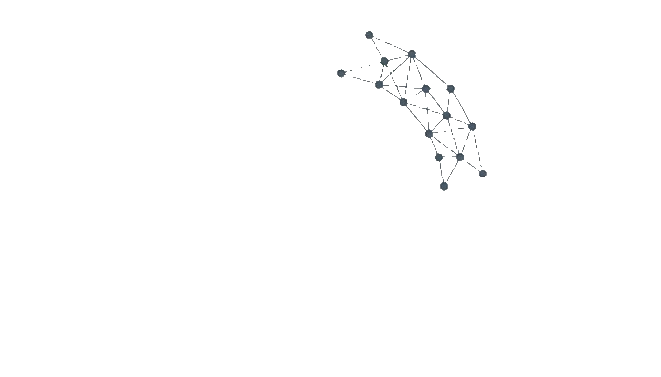
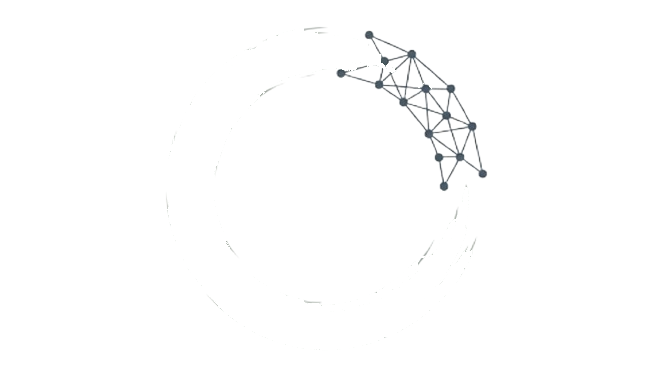
Enso animation: clean layer split, stroke leads and network lands last

diff --git a/style.css b/style.css
@@ -335,8 +335,8 @@ body.menu-open .mobile-menu-links li:nth-child(4) { transition-delay: 0.2s; }
     @supports (mask: conic-gradient(#000 0deg, transparent 0deg)) {
         .enso-brush {
             --enso-sweep: 0deg;
-            -webkit-mask: conic-gradient(from 52deg at 50% 51%, #000 var(--enso-sweep), transparent calc(var(--enso-sweep) + 26deg));
-            mask: conic-gradient(from 52deg at 50% 51%, #000 var(--enso-sweep), transparent calc(var(--enso-sweep) + 26deg));
+            -webkit-mask: conic-gradient(from 96deg at 50% 51%, #000 var(--enso-sweep), transparent calc(var(--enso-sweep) + 26deg));
+            mask: conic-gradient(from 96deg at 50% 51%, #000 var(--enso-sweep), transparent calc(var(--enso-sweep) + 26deg));
             animation: ensoDraw 1.7s cubic-bezier(0.6, 0.05, 0.3, 1) 0.35s both;
         }
     }
